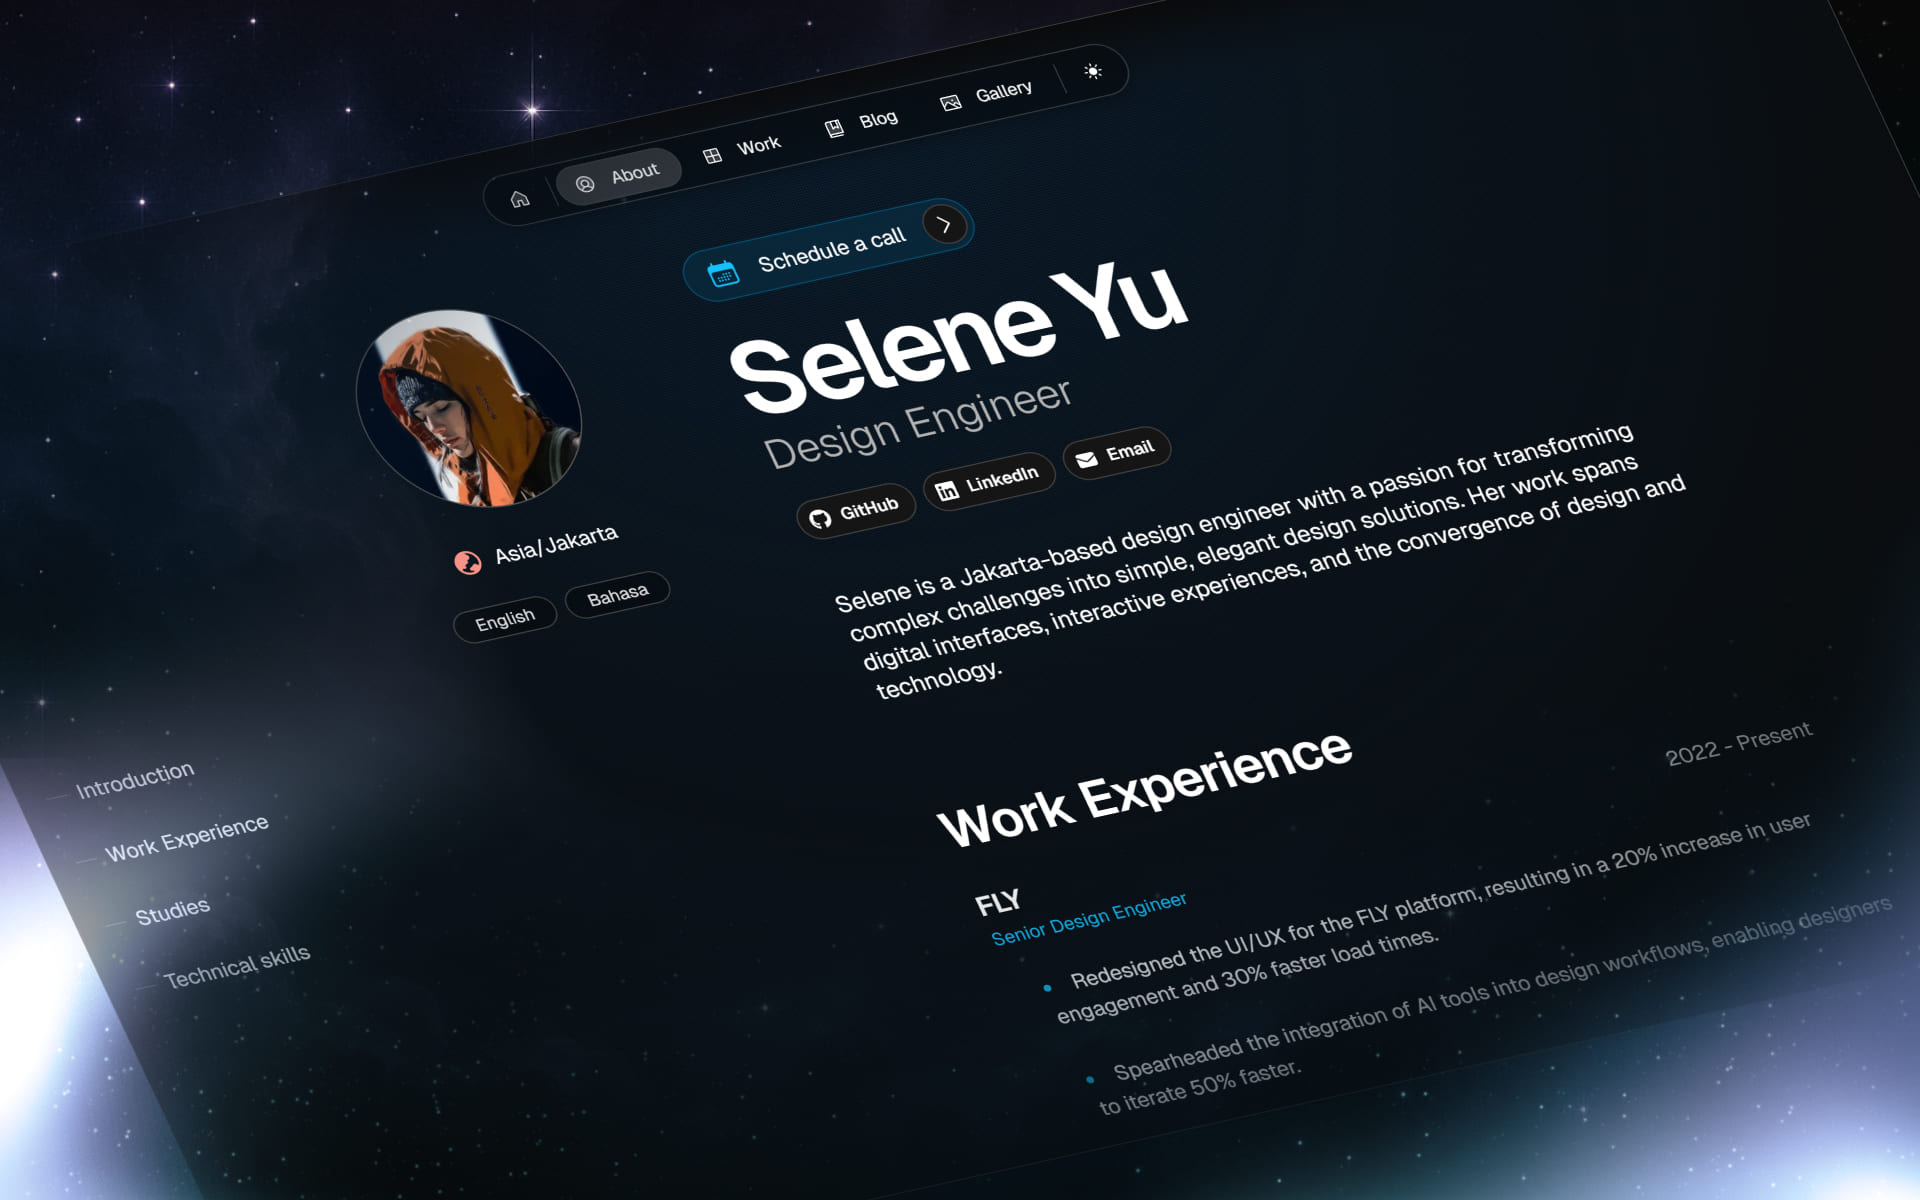
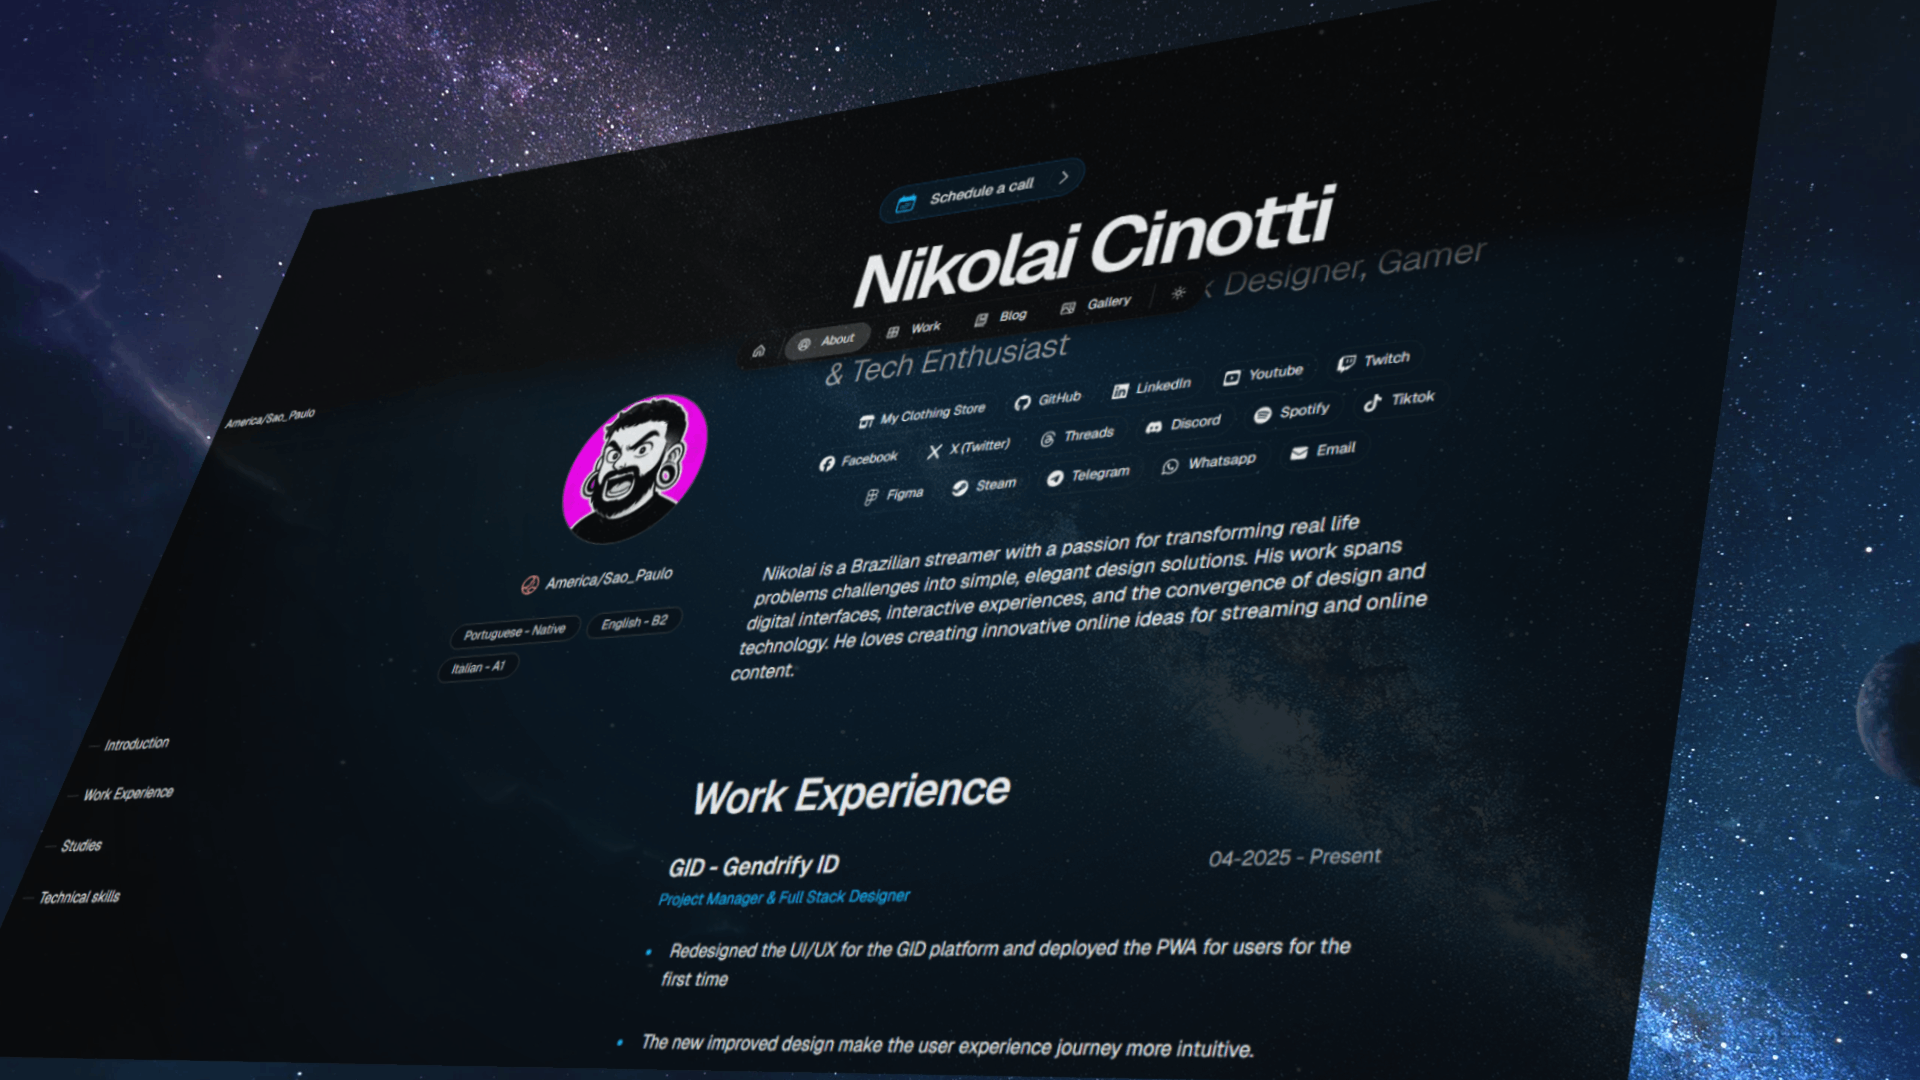
update home png

diff --git a/src/resources/once-ui.config.js b/src/resources/once-ui.config.js
@@ -60,7 +60,7 @@ const fonts = {
 
 // default customization applied to the HTML in the main layout.tsx
 const style = {
-  theme: "system", // dark | light | system
+  theme: "dark", // dark | light | system
   neutral: "gray", // sand | gray | slate | custom
   brand: "cyan", // blue | indigo | violet | magenta | pink | red | orange | yellow | moss | green | emerald | aqua | cyan | custom
   accent: "red", // blue | indigo | violet | magenta | pink | red | orange | yellow | moss | green | emerald | aqua | cyan | custom
@@ -73,7 +73,7 @@ const style = {
 };
 
 const dataStyle = {
-  variant: "gradient", // flat | gradient | outline
+  variant: "flat", // flat | gradient | outline
   mode: "categorical", // categorical | divergent | sequential
   height: 24, // default chart height
   axis: {
@@ -185,6 +185,7 @@ const sameAs = {
   threads: "https://www.threads.com/@eaeniko",
   linkedin: "https://www.linkedin.com/in/eaeniko/",
   discord: "https://discord.gg/n9yEFyMVTz",
+  github: "https://github.com/eaeniko",
 };
 
 export { display, mailchimp, routes, protectedRoutes, baseURL, fonts, style, schema, sameAs, effects, dataStyle };

diff --git a/src/resources/content.js b/src/resources/content.js
@@ -35,7 +35,7 @@ const social = [
   {
     name: "GitHub",
     icon: "github",
-    link: "https://github.com/eaeniko",
+    link: "https://www.github.com/eaeniko",
   },
   {
     name: "LinkedIn",
